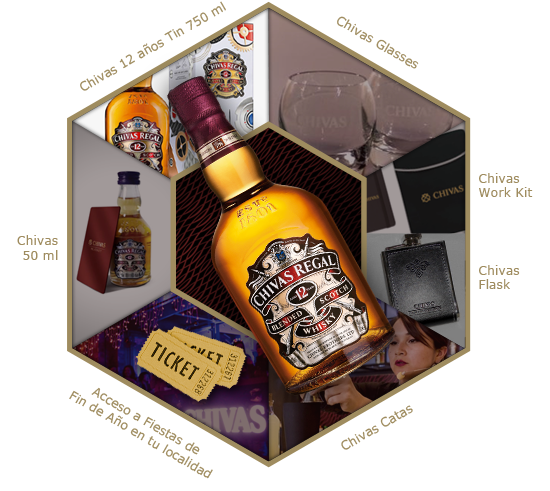
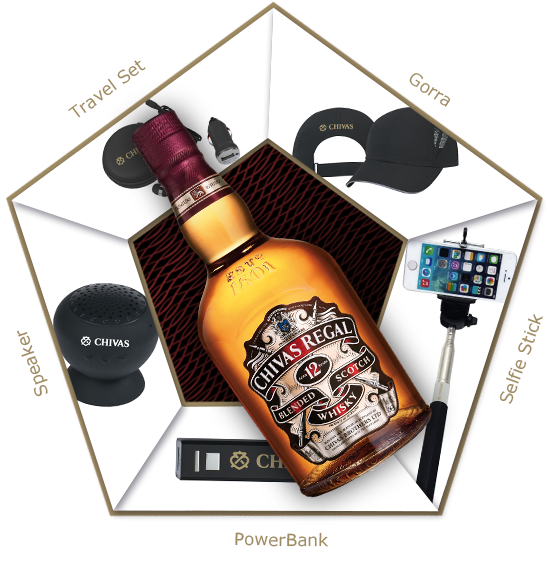
New Gifts

diff --git a/app/controllers/gifts_controller.rb b/app/controllers/gifts_controller.rb
@@ -70,33 +70,26 @@ class GiftsController < ApplicationController
     g = Event.find params[:event_id]
     if g.gifts.blank?
       #Chivas Flask
-      Gift.create!([type_g: 0, name: 'Chivas Flask', position: 10, event_id: params[:event_id], inventory: params[:gifts][:flask], predicted: params[:gifts][:flask], priority: 1, image: 'g-flask.jpg'])
+      Gift.create!([type_g: 0, name: 'Gorra', position: 10, event_id: params[:event_id], inventory: params[:gifts][:gorra], predicted: params[:gifts][:gorra], priority: 1, image: 'g-gorra.png'])
+      Gift.create!([type_g: 0, name: 'Gorra', position: 340, event_id: params[:event_id], inventory: params[:gifts][:gorra1], predicted: params[:gifts][:gorra1], priority: 1, image: 'g-gorra.png'])
+      Gift.create!([type_g: 0, name: 'Gorra', position: 120, event_id: params[:event_id], inventory: params[:gifts][:gorra2], predicted: params[:gifts][:gorra2], priority: 1, image: 'g-gorra.png'])
+      Gift.create!([type_g: 0, name: 'Gorra', position: 320, event_id: params[:event_id], inventory: params[:gifts][:gorra3], predicted:  params[:gifts][:gorra3], priority: 1, image: 'g-gorra.png'])
 
-      #Glasses
-      Gift.create!([type_g: 0, name: 'Chivas Glasses', position: 140, event_id: params[:event_id], inventory: params[:gifts][:glasses], predicted: params[:gifts][:glasses], priority: 1, image: 'g-glasses.jpg'])
-      Gift.create!([type_g: 0, name: 'Chivas Glasses', position: 205, event_id: params[:event_id], inventory: params[:gifts][:glasses1], predicted: params[:gifts][:glasses1], priority: 1, image: 'g-glasses.jpg'])
+      Gift.create!([type_g: 1, name: 'Selfie Stick', position: 140, event_id: params[:event_id], inventory: params[:gifts][:selfie], predicted: params[:gifts][:selfie], priority: 1, image: 'g-selfie.png'])
+      Gift.create!([type_g: 1, name: 'Selfie Stick', position: 30, event_id: params[:event_id], inventory: params[:gifts][:selfie1], predicted:  params[:gifts][:selfie1], priority: 1, image: 'g-selfie.png'])
+      Gift.create!([type_g: 1, name: 'Selfie Stick', position: 250, event_id: params[:event_id], inventory: params[:gifts][:selfie2], predicted: params[:gifts][:selfie2], priority: 1, image: 'g-selfie.png'])
 
-      #Acceso a Fiestas Fin de Año
-      Gift.create!([type_g: 1, name: 'Acceso a Fiestas Fin de Año', position: 30, event_id: params[:event_id], inventory: params[:gifts][:fiesta], predicted:  params[:gifts][:fiesta], priority: 1, image: 'g-fiestas.jpg'])
-      Gift.create!([type_g: 1, name: 'Acceso a Fiestas Fin de Año', position: 105, event_id: params[:event_id], inventory: params[:gifts][:fiesta1], predicted:  params[:gifts][:fiesta1], priority: 1, image: 'g-fiestas.jpg'])
-      Gift.create!([type_g: 1, name: 'Acceso a Fiestas Fin de Año', position: 185, event_id: params[:event_id], inventory: params[:gifts][:fiesta2], predicted:  params[:gifts][:fiesta2], priority: 1, image: 'g-fiestas.jpg'])
-      Gift.create!([type_g: 1, name: 'Acceso a Fiestas Fin de Año', position: 320, event_id: params[:event_id], inventory: params[:gifts][:fiesta3], predicted:  params[:gifts][:fiesta3], priority: 1, image: 'g-fiestas.jpg'])
+      Gift.create!([type_g: 2, name: 'PowerBank', position: 55, event_id: params[:event_id], inventory: params[:gifts][:power], predicted: params[:gifts][:power], priority: 1, image: 'g-power.png'])
+      Gift.create!([type_g: 2, name: 'PowerBank', position: 160, event_id: params[:event_id], inventory: params[:gifts][:power1], predicted: params[:gifts][:power1], priority: 1, image: 'g-power.png'])
+      Gift.create!([type_g: 2, name: 'PowerBank', position: 275, event_id: params[:event_id], inventory: params[:gifts][:power2], predicted: params[:gifts][:power2], priority: 1, image: 'g-power.png'])
 
-      #Chivas 375 ml
-      Gift.create!([type_g: 2, name: 'Chivas 50 ml', position: 55, event_id: params[:event_id], inventory: params[:gifts][:ml], predicted: params[:gifts][:ml], priority: 1, image: 'g-ml.jpg'])
-      Gift.create!([type_g: 2, name: 'Chivas 50 ml', position: 250, event_id: params[:event_id], inventory: params[:gifts][:ml1], predicted: params[:gifts][:ml1], priority: 1, image: 'g-ml.jpg'])
+      Gift.create!([type_g: 3, name: 'Travel Set', position: 105, event_id: params[:event_id], inventory: params[:gifts][:travel], predicted:  params[:gifts][:travel], priority: 1, image: 'g-travel.png'])
+      Gift.create!([type_g: 3, name: 'Travel Set', position: 205, event_id: params[:event_id], inventory: params[:gifts][:travel1], predicted: params[:gifts][:travel1], priority: 1, image: 'g-travel.png'])
+      Gift.create!([type_g: 3, name: 'Travel Set', position: 225, event_id: params[:event_id], inventory: params[:gifts][:travel2], predicted: params[:gifts][:travel2], priority: 1, image: 'g-travel.png'])
 
-      #Chivas Work Kit
-        Gift.create!([type_g: 3, name: 'Chivas Work Kit', position: 85, event_id: params[:event_id], inventory: params[:gifts][:kit], predicted: params[:gifts][:kit], priority: 1, image: 'g-kit.jpg'])
-        Gift.create!([type_g: 3, name: 'Chivas Work Kit', position: 160, event_id: params[:event_id], inventory: params[:gifts][:kit1], predicted: params[:gifts][:kit1], priority: 1, image: 'g-kit.jpg'])
-        Gift.create!([type_g: 3, name: 'Chivas Work Kit', position: 275, event_id: params[:event_id], inventory: params[:gifts][:kit2], predicted: params[:gifts][:kit2], priority: 1, image: 'g-kit.jpg'])
-      #Chivas Catas
-        Gift.create!([type_g: 4, name: 'Chivas Catas', position: 340, event_id: params[:event_id], inventory: params[:gifts][:catas], predicted: params[:gifts][:catas], priority: 1, image: 'g-catas.jpg'])
-        Gift.create!([type_g: 4, name: 'Chivas Catas', position: 120, event_id: params[:event_id], inventory: params[:gifts][:catas1], predicted: params[:gifts][:catas1], priority: 1, image: 'g-catas.jpg'])
-        Gift.create!([type_g: 4, name: 'Chivas Catas', position: 225, event_id: params[:event_id], inventory: params[:gifts][:catas2], predicted: params[:gifts][:catas2], priority: 1, image: 'g-catas.jpg'])
-      #Chivas 12 años Tin 750ml
-      #por defecto esta Cada 6 jugadas
-        Gift.create!([type_g: 5, name: 'Chivas 12 años Tin 750ml', position: 300, event_id: params[:event_id], inventory: params[:gifts][:tin], predicted: params[:gifts][:tin], priority: 6, image: 'g-tin.jpg'])
+      Gift.create!([type_g: 4, name: 'Speaker', position: 185, event_id: params[:event_id], inventory: params[:gifts][:speaker], predicted:  params[:gifts][:speaker], priority: 1, image: 'g-speaker.png'])
+      Gift.create!([type_g: 4, name: 'Speaker', position: 85, event_id: params[:event_id], inventory: params[:gifts][:speaker1], predicted: params[:gifts][:speaker1], priority: 1, image: 'g-speaker.png'])
+      Gift.create!([type_g: 4, name: 'Speaker', position: 300, event_id: params[:event_id], inventory: params[:gifts][:speaker2], predicted: params[:gifts][:speaker2], priority: 1, image: 'g-speaker.png'])
 
       redirect_to event_path(params[:event_id]), notice: "Todos los regalos fueron creados"
     else
